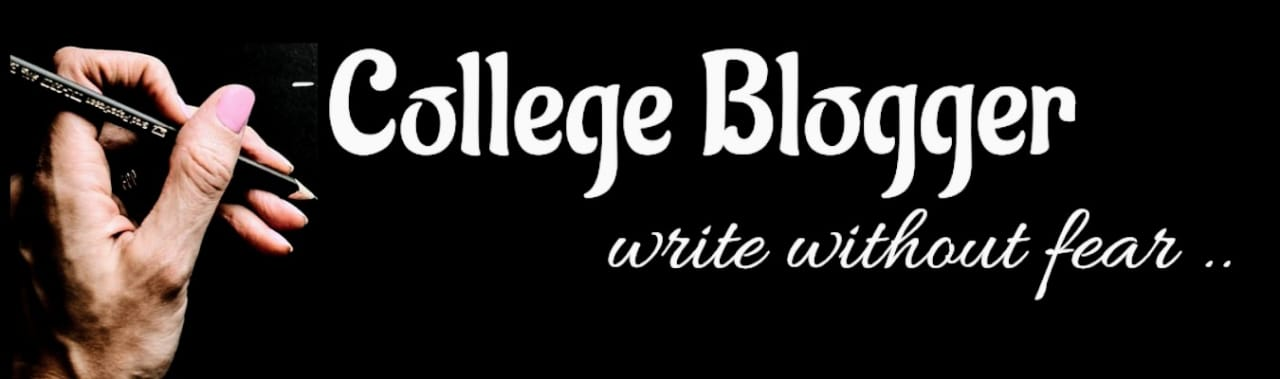
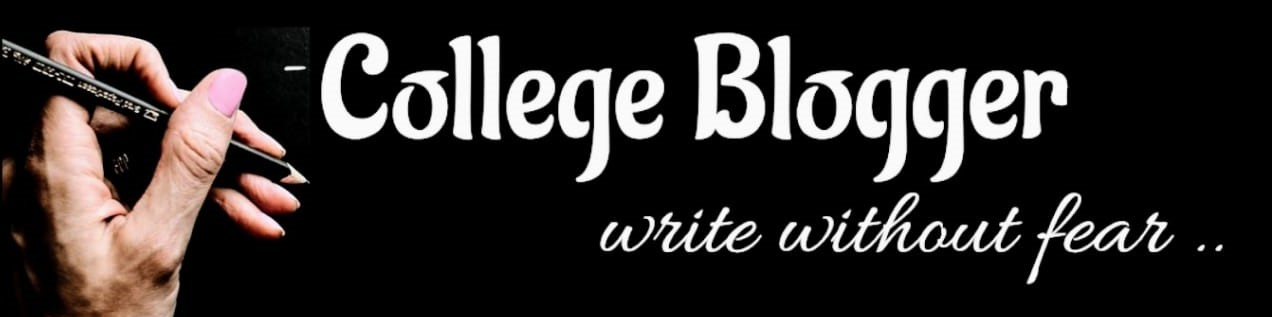
03

Changed region(s): [[0.0, 0.0852, 0.9811, 1.0]]

diff --git a/index.html b/index.html
@@ -21,7 +21,7 @@ and open the template in the editor.
         <meta name="viewport" content="width=device-width, initial-scale=1.0">
     </head>
   <body>
-       <img src="img/n02.jpg"  alt="Responsive image"
+       <img src="img/n03.jpg"  alt="Responsive image"
    title="Blog Banner"
     width="100%"
     height="01%"
